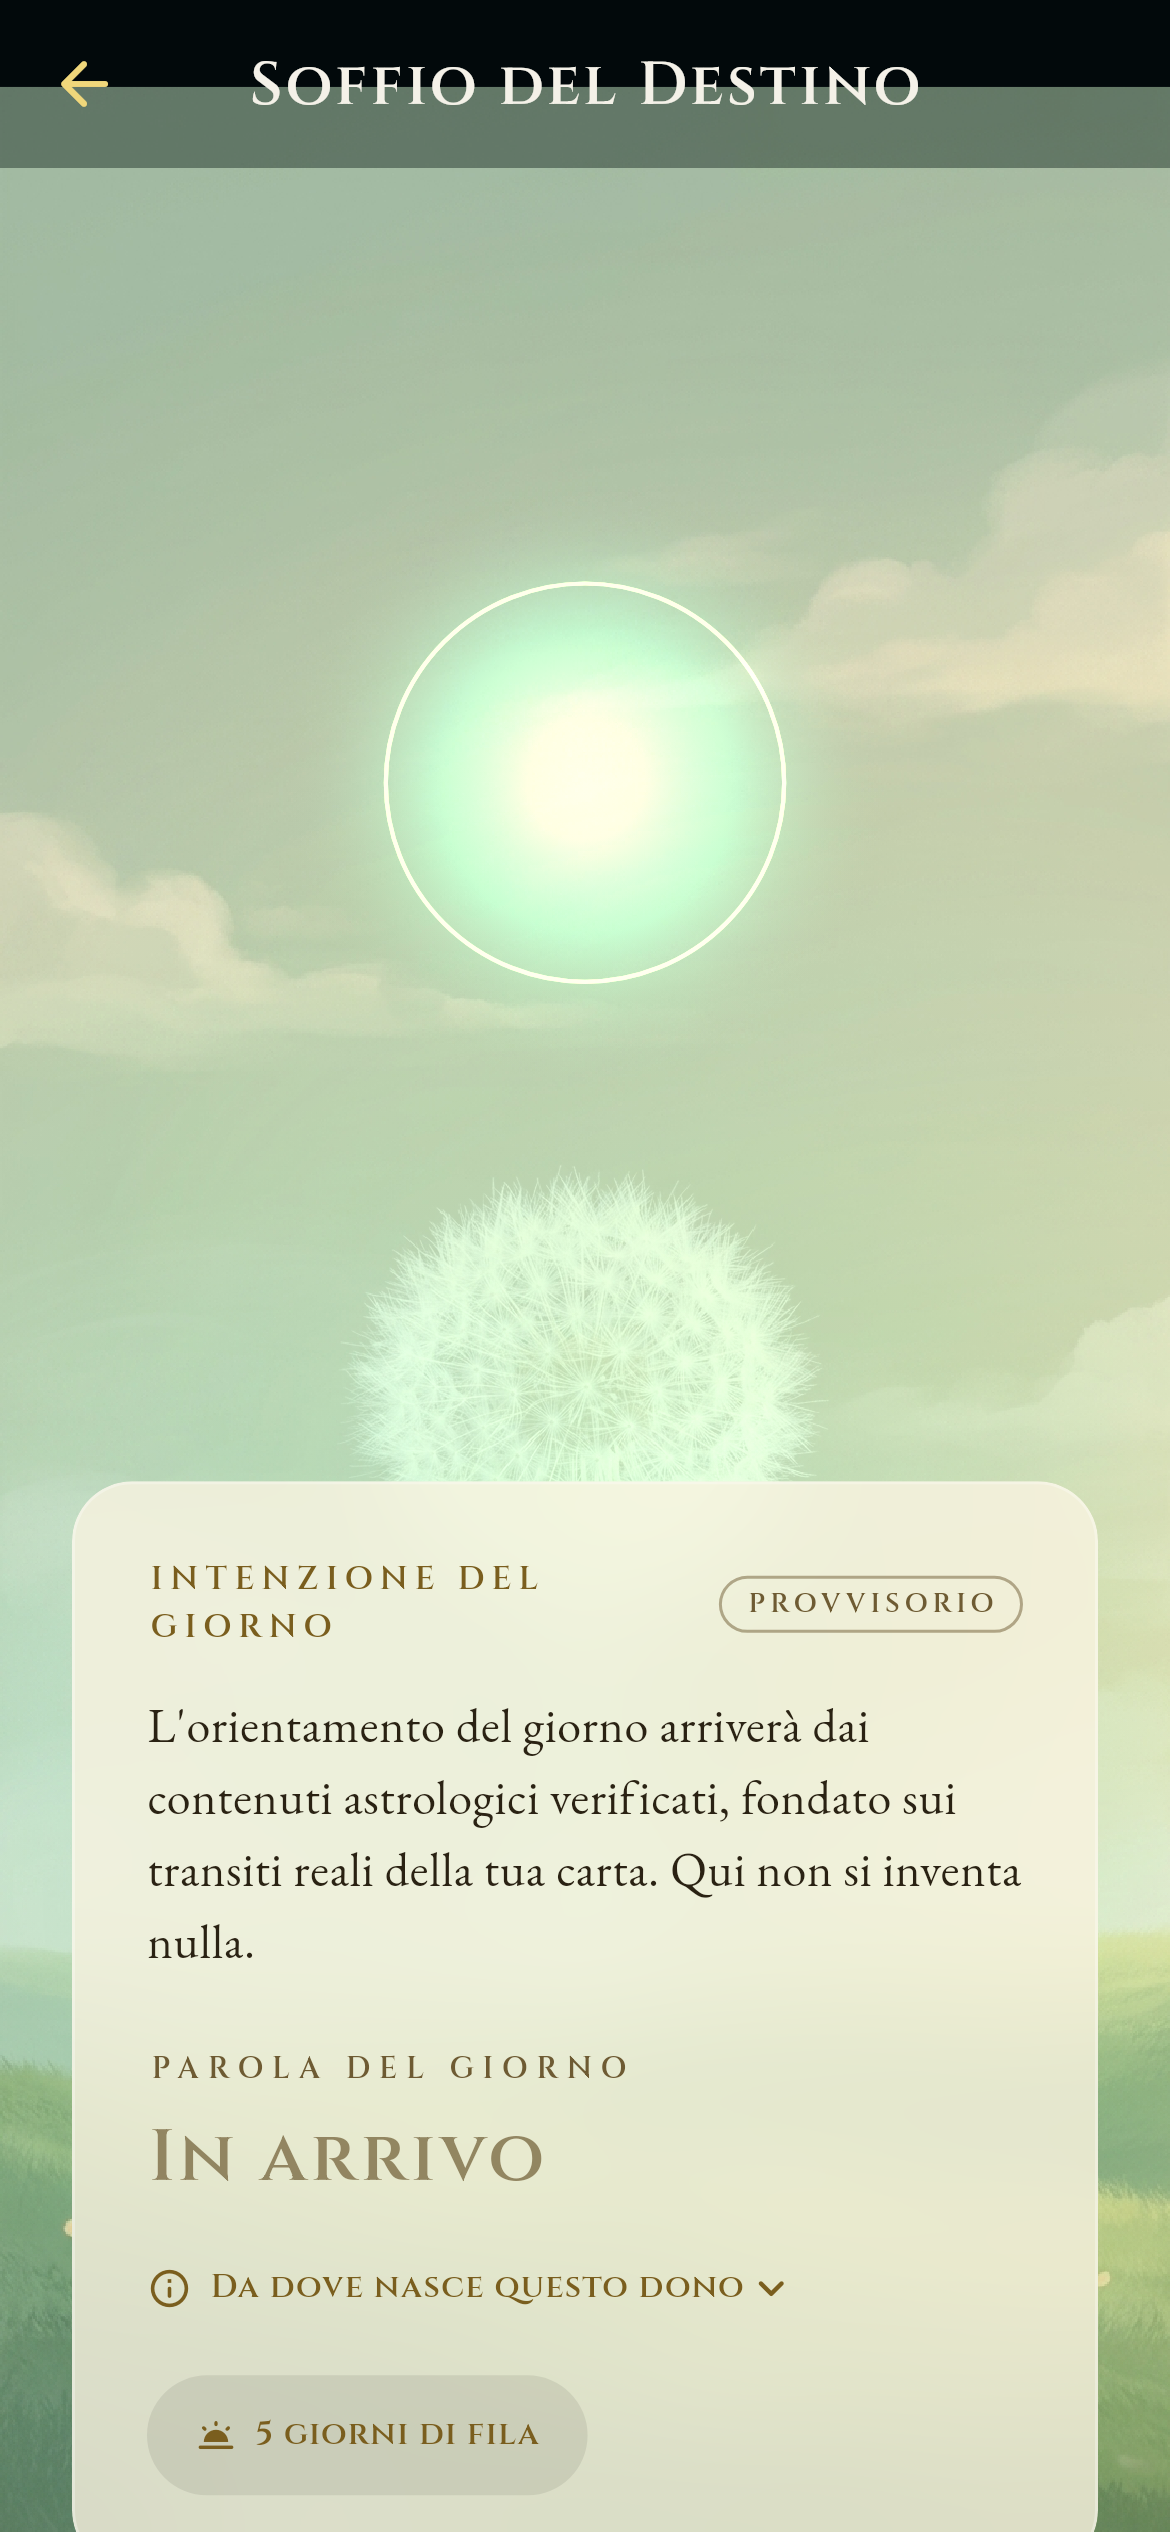
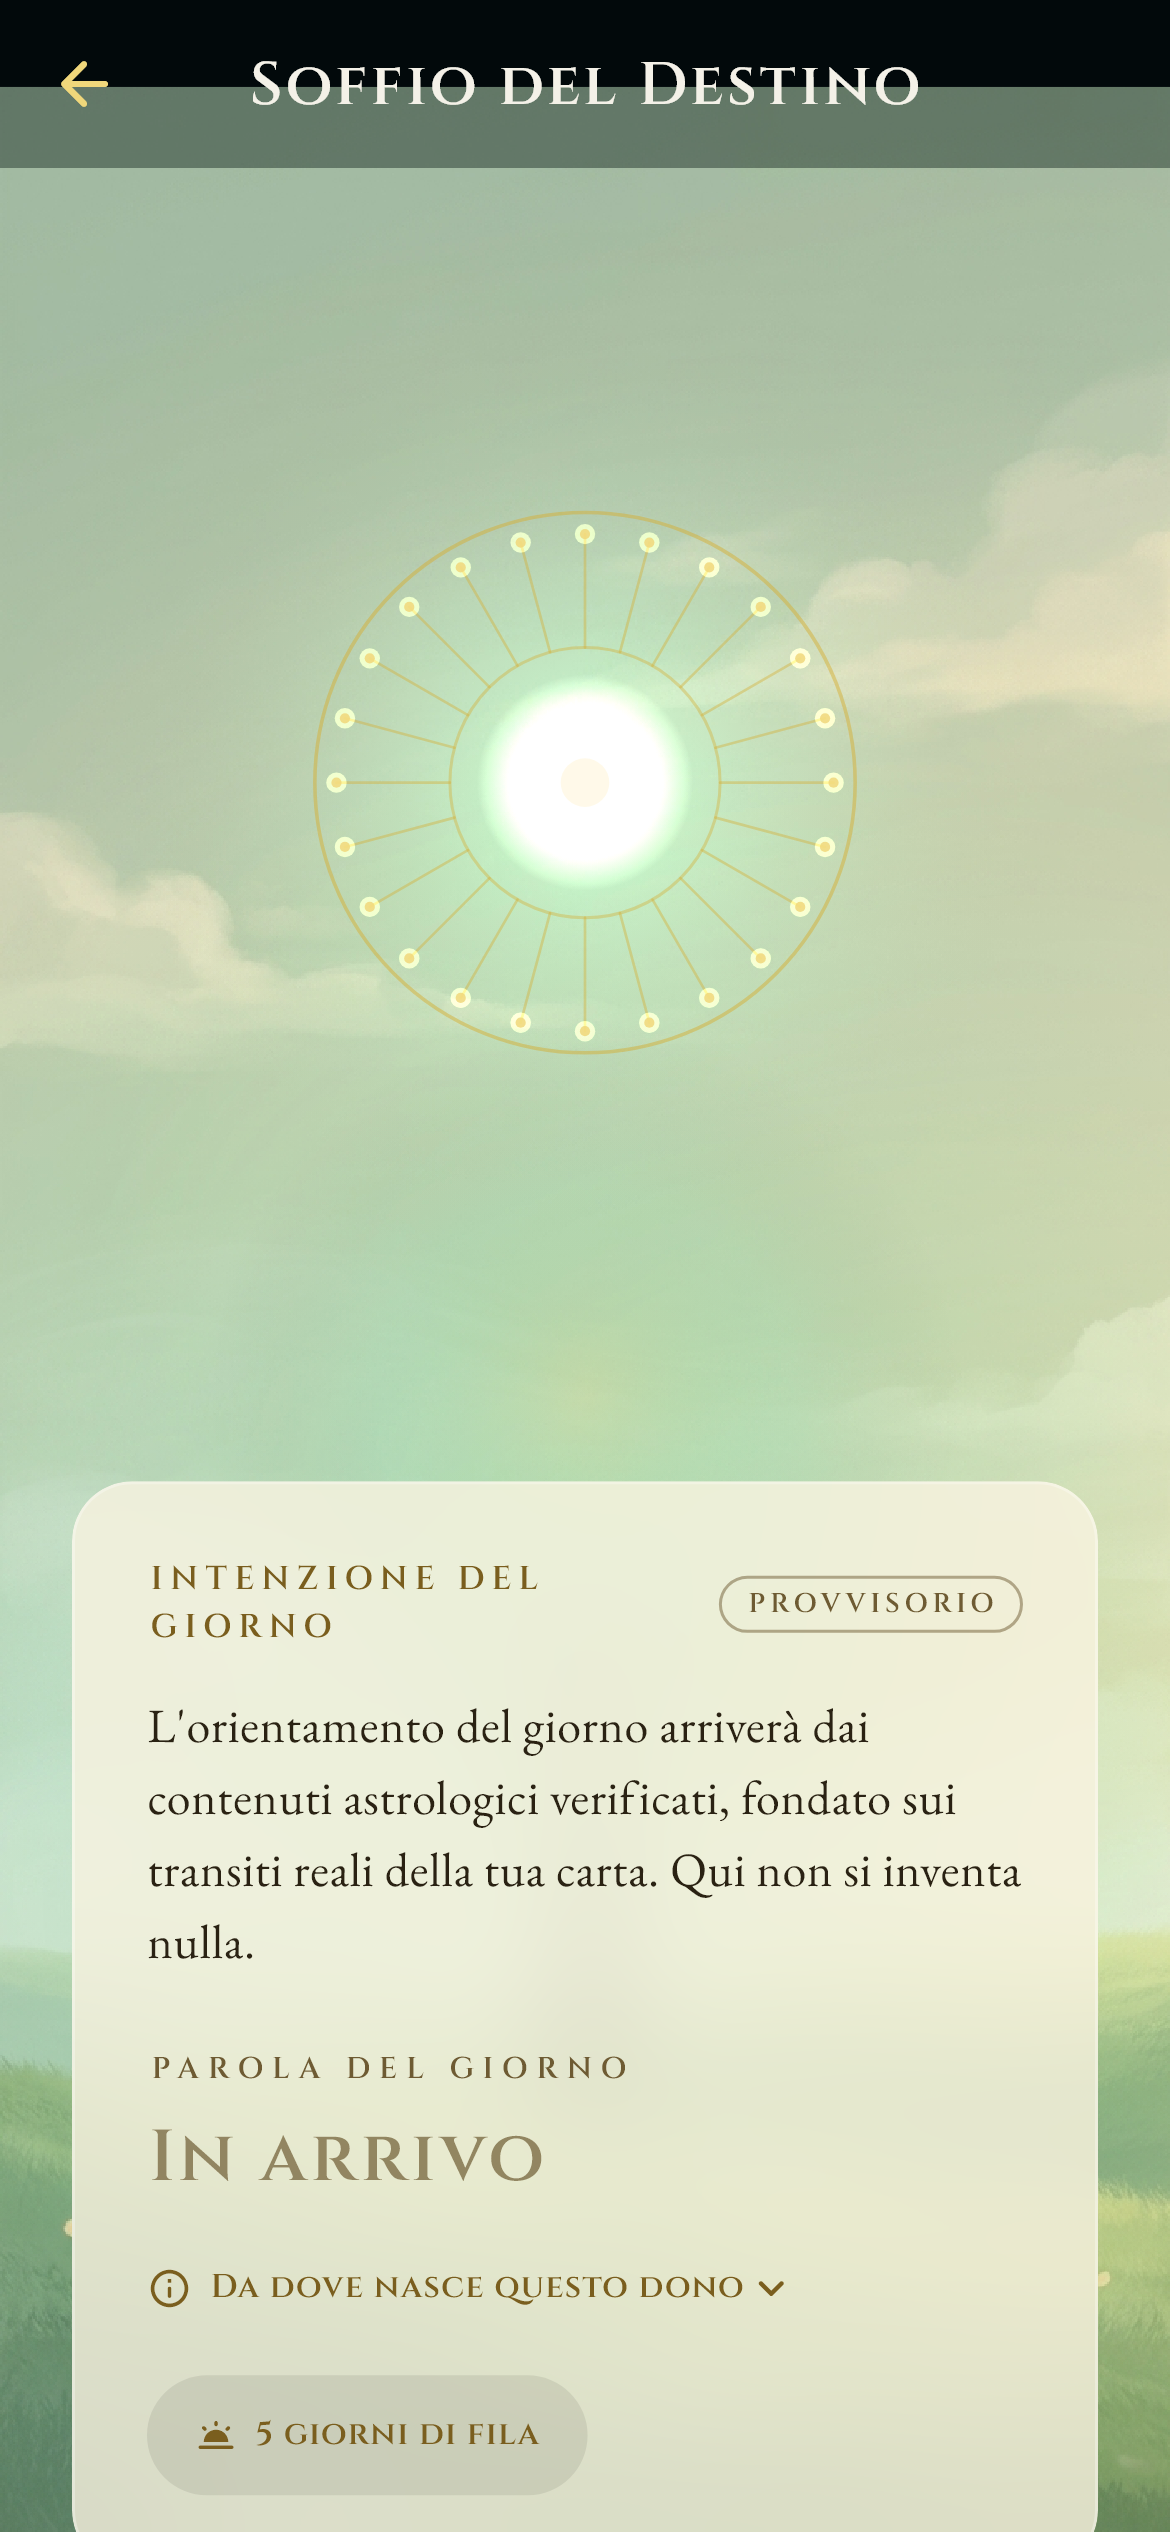
Soffio del Destino: soffione col suo dettaglio, testa che si svuota, dono di luce piu curato
Task 2. Il soffione non e piu additivo. La trasparenza si ricava dal fondo
nero con la luminanza come canale alpha (bake smoothstep 3..32), cosi il fiore
mantiene il dettaglio reale, i pappi restano definiti coi bordi morbidi e lo
stelo resta piantato nel prato. Un alone morbido attorno da l'aria senza
bruciare a bianco.

Task 3. A gesto in corso la testa si svuota progressivamente: lo stelo col
ricettacolo e disegnato sempre opaco, la testa sopra sfuma con opacita 1-p
mentre i semi volano. Il gesto ha un prima e un dopo coerente.

Task 4. Il segnaposto energetico del dono e ora una forma di luce costruita:
nucleo luminoso definito, ventiquattro raggi con nodi dorati, due anelli fini
e un alone verde-oro. Resta marcato Provvisorio, il visivo definitivo arrivera
dal cantiere.

Anteprime dei due stati rigenerate.

diff --git a/lib/features/rituals/breath_destiny_screen.dart b/lib/features/rituals/breath_destiny_screen.dart
@@ -450,7 +450,6 @@ class _BreathScenePainter extends CustomPainter {
     final headCenter = Offset(w * 0.5, h * 0.52);
     final dstTop = headCenter.dy - _headFy * dstH;
     final dstLeft = w * 0.5 - _headFx * dstW;
-    final dandDst = Rect.fromLTWH(dstLeft, dstTop, dstW, dstH);
     final headR = _headRFrac * dstW;
     final giftCenter = Offset(w * 0.5, h * 0.26);
 
@@ -459,16 +458,45 @@ class _BreathScenePainter extends CustomPainter {
     // verra' dal cantiere.
     _paintGiftForm(canvas, giftCenter, w, p);
 
-    // --- Soffione, additivo: i pappi luminosi. La testa si dirada col soffio ---
-    final headAlpha = (0.9 - 0.72 * p).clamp(0.0, 1.0);
+    // --- Alone morbido d'aria attorno al soffione, appena un respiro ---
+    final auraR = headR * 1.9;
+    canvas.drawCircle(
+      headCenter,
+      auraR,
+      Paint()
+        ..shader = RadialGradient(
+          colors: [
+            palette.goldSoft.withValues(alpha: 0.16),
+            palette.glow.withValues(alpha: 0.06),
+            const Color(0x00000000),
+          ],
+          stops: const [0.0, 0.55, 1.0],
+        ).createShader(Rect.fromCircle(center: headCenter, radius: auraR)),
+    );
+
+    // --- Soffione in composizione normale: l'alpha cotto dal fondo nero tiene
+    // il dettaglio reale, i pappi coi bordi morbidi e lo stelo piantato. Niente
+    // additivo, niente bruciatura a bianco. In due parti: lo stelo col
+    // ricettacolo resta sempre, la testa si svuota progressivamente col soffio.
+    const headBottomFy = 0.63, stemTopFy = 0.60;
+    // Lo stelo col ricettacolo, sempre piantato nel prato.
     canvas.drawImageRect(
       dandelion,
-      Rect.fromLTWH(0, 0, dw, dh),
-      dandDst,
-      Paint()
-        ..blendMode = BlendMode.plus
-        ..color = Colors.white.withValues(alpha: headAlpha),
+      Rect.fromLTWH(0, stemTopFy * dh, dw, dh * (1 - stemTopFy)),
+      Rect.fromLTWH(
+          dstLeft, dstTop + stemTopFy * dstH, dstW, dstH * (1 - stemTopFy)),
+      Paint(),
     );
+    // La testa, che si dirada fino allo spoglio col progredire del soffio.
+    final headOpacity = (1 - p).clamp(0.0, 1.0);
+    if (headOpacity > 0.01) {
+      canvas.drawImageRect(
+        dandelion,
+        Rect.fromLTWH(0, 0, dw, dh * headBottomFy),
+        Rect.fromLTWH(dstLeft, dstTop, dstW, dstH * headBottomFy),
+        Paint()..color = Colors.white.withValues(alpha: headOpacity),
+      );
+    }
 
     // --- Semi che volano via verso l'alto come scintille, con deriva di vento --
     _paintSeeds(canvas, headCenter, headR, giftCenter, p);
@@ -483,35 +511,75 @@ class _BreathScenePainter extends CustomPainter {
     canvas.drawImageRect(img, Rect.fromLTWH(0, 0, iw, ih), dst, paint);
   }
 
+  // Il visivo del dono, provvisorio ma costruito: un soffione di luce, non una
+  // palla sfocata. Cuore definito, raggi che terminano in nodi luminosi, due
+  // anelli fini e un alone verde-oro. Si accende col salire delle scintille. La
+  // forma definitiva verra' dal cantiere.
   void _paintGiftForm(Canvas canvas, Offset center, double w, double p) {
     if (p <= 0.02) return;
-    // Alone morbido che cresce e si scalda con le scintille in arrivo.
-    final r = w * (0.12 + 0.14 * p);
+    final breathe = reduceMotion ? 0.0 : math.sin(2 * math.pi * ambient);
+    final r = w * (0.13 + 0.10 * p) * (1 + 0.025 * breathe);
+
+    // Alone verde-oro d'aria, morbido, dietro alla forma.
     canvas.drawCircle(
       center,
-      r,
+      r * 1.7,
       Paint()
         ..blendMode = BlendMode.plus
         ..shader = RadialGradient(
           colors: [
-            palette.goldSoft.withValues(alpha: 0.5 * p),
-            palette.glow.withValues(alpha: 0.22 * p),
+            palette.glow.withValues(alpha: 0.26 * p),
             const Color(0x00000000),
           ],
-          stops: const [0.0, 0.5, 1.0],
-        ).createShader(Rect.fromCircle(center: center, radius: r)),
+        ).createShader(Rect.fromCircle(center: center, radius: r * 1.7)),
     );
-    // Un anello tenue che pulsa, segnaposto della forma del dono.
-    final breathe = reduceMotion ? 0.5 : 0.5 + 0.5 * math.sin(2 * math.pi * ambient);
+
+    // Due anelli fini che danno struttura.
+    Paint ring(double a, double sw) => Paint()
+      ..style = PaintingStyle.stroke
+      ..strokeWidth = sw
+      ..color = palette.gold.withValues(alpha: a * p);
+    canvas.drawCircle(center, r, ring(0.5, 1.2));
+    canvas.drawCircle(center, r * 0.5, ring(0.4, 1.0));
+
+    // Raggi che terminano in nodi luminosi, come un soffione di luce.
+    const n = 24;
+    final ray = Paint()
+      ..strokeWidth = 0.9
+      ..strokeCap = StrokeCap.round
+      ..color = palette.gold.withValues(alpha: 0.42 * p);
+    for (var i = 0; i < n; i++) {
+      final a = 2 * math.pi * i / n - math.pi / 2;
+      final dir = Offset(math.cos(a), math.sin(a));
+      final outer = center + dir * r * 0.92;
+      canvas.drawLine(center + dir * r * 0.5, outer, ray);
+      // Bagliore additivo e nodo definito al vertice.
+      canvas.drawCircle(
+        outer,
+        3.4,
+        Paint()
+          ..blendMode = BlendMode.plus
+          ..color = palette.goldSoft.withValues(alpha: 0.22 * p),
+      );
+      canvas.drawCircle(outer, 1.7,
+          Paint()..color = palette.goldSoft.withValues(alpha: 0.85 * p));
+    }
+
+    // Cuore definito e luminoso.
     canvas.drawCircle(
       center,
-      r * (0.62 + 0.06 * breathe),
+      r * 0.4,
       Paint()
-        ..style = PaintingStyle.stroke
-        ..strokeWidth = 1.4
         ..blendMode = BlendMode.plus
-        ..color = palette.goldSoft.withValues(alpha: 0.4 * p),
+        ..shader = RadialGradient(
+          colors: [
+            const Color(0xFFFFF6DC).withValues(alpha: 0.85 * p),
+            const Color(0x00FFF6DC),
+          ],
+        ).createShader(Rect.fromCircle(center: center, radius: r * 0.4)),
     );
+    canvas.drawCircle(center, r * 0.09,
+        Paint()..color = const Color(0xFFFFF9E8).withValues(alpha: 0.95 * p));
   }
 
   void _paintSeeds(Canvas canvas, Offset head, double headR, Offset gift,
